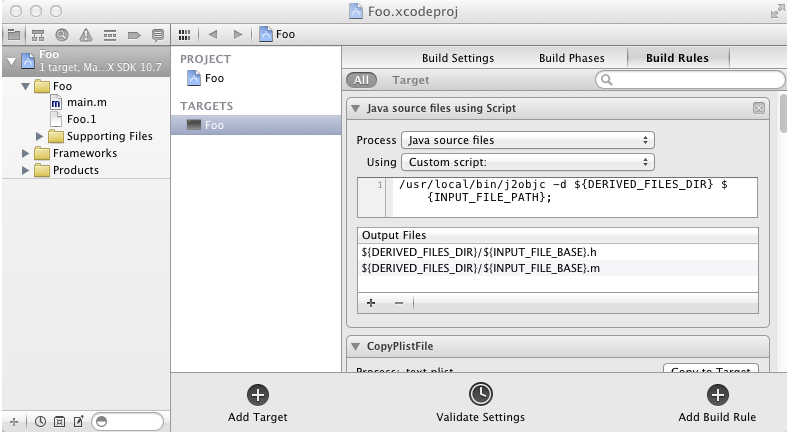
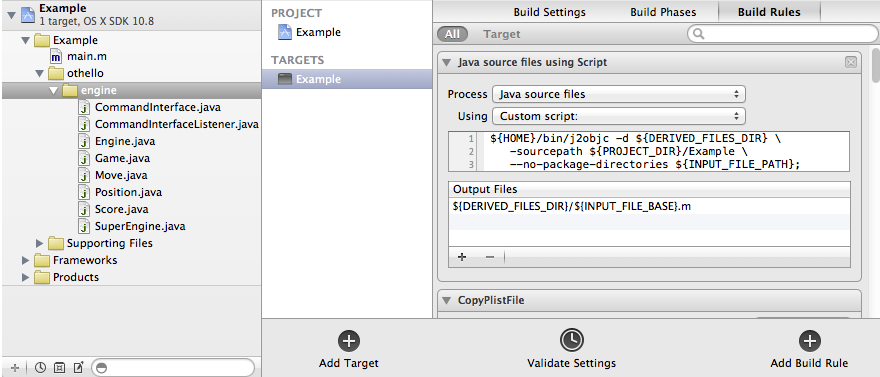
Added --no-package-directories option, which generates non-JRE outputs without the Java package as their directory. This feature is needed to support J2ObjC build rules in Xcode 4. Updated wiki image with new screenshot showing this option in use.
Updated option text to be more javac-like, including stating what's
missing when a flag requires an argument.
	Change on 2012/09/22 by tball@tball
-------------
Created by MOE: http://code.google.com/p/moe-java
MOE_MIGRATED_REVID=34188645

diff --git a/src/main/java/com/google/devtools/j2objc/Options.java b/src/main/java/com/google/devtools/j2objc/Options.java
@@ -52,6 +52,7 @@ public class Options {
   private static String pluginOptionString = "";
   private static List<Plugin> plugins = new ArrayList<Plugin>();
   private static File outputDirectory = new File(".");
+  private static boolean usePackageDirectories = true;
   private static Language language = Language.OBJECTIVE_C;
   private static boolean printConvertedSources = false;
   private static boolean ignoreMissingImports = false;
@@ -84,7 +85,7 @@ public class Options {
     URL propertiesUrl = Resources.getResource(J2ObjC.class, "J2ObjC.properties");
     Properties properties = new Properties();
     try {
-        properties.load(propertiesUrl.openStream());
+      properties.load(propertiesUrl.openStream());
     } catch (IOException e) {
       System.err.println("unable to access tool properties: " + e);
       System.exit(1);
@@ -95,6 +96,17 @@ public class Options {
     Preconditions.checkNotNull(usageMessage);
     helpMessage = properties.getProperty(HELP_MSG_KEY);
     Preconditions.checkNotNull(helpMessage);
+    properties.clear();
+
+    // Set JRE prefixes.
+    propertiesUrl = Resources.getResource(J2ObjC.class, "JRE.properties");
+    try {
+      properties.load(propertiesUrl.openStream());
+    } catch (IOException e) {
+      System.err.println("unable to access JRE package properties: " + e);
+      System.exit(1);
+    }
+    addPrefixProperties(properties);
   }
 
   public static enum MemoryManagementOption { REFERENCE_COUNTING, GC, ARC }
@@ -132,47 +144,47 @@ public class Options {
         classPathEntries = getPathArgument(args[nArg]);
       } else if (arg.equals("-sourcepath")) {
         if (++nArg == args.length) {
-          usage();
+          usage("-sourcepath requires an argument");
         }
         sourcePathEntries.addAll(getPathArgument(args[nArg]));
       } else if (arg.equals("-pluginpath")) {
         if (++nArg == args.length) {
-          usage();
+          usage("-pluginpath requires an argument");
         }
         pluginPathEntries = getPathArgument(args[nArg]);
       } else if (arg.equals("-pluginoptions")) {
         if (++nArg == args.length){
-          usage();
+          usage("-pluginoptions requires an argument");
         }
         pluginOptionString = args[nArg];
       } else if (arg.equals("-d")) {
         if (++nArg == args.length) {
-          usage();
+          usage("-d requires an argument");
         }
         outputDirectory = new File(args[nArg]);
       } else if (arg.equals("--mapping")) {
         if (++nArg == args.length) {
-          usage();
+          usage("--mapping requires an argument");
         }
         mappingFiles.add(args[nArg]);
       } else if (arg.equals("--dead-code-report")) {
         if (++nArg == args.length) {
-          usage();
+          usage("--dead-code-report requires an argument");
         }
         proGuardUsageFile = new File(args[nArg]);
       } else if (arg.equals("--prefix")) {
         if (++nArg == args.length) {
-          usage();
+          usage("--prefix requires an argument");
         }
         addPrefixOption(args[nArg]);
       } else if (arg.equals("--prefixes")) {
         if (++nArg == args.length) {
-          usage();
+          usage("--prefixes requires an argument");
         }
         addPrefixesFile(args[nArg]);
       } else if (arg.equals("-x")) {
         if (++nArg == args.length) {
-          usage();
+          usage("-x requires an argument");
         }
         String s = args[nArg];
         if (s.equals("objective-c")) {
@@ -180,7 +192,7 @@ public class Options {
         } else if (s.equals("objective-c++")) {
           language = Language.OBJECTIVE_CPP;
         } else {
-          usage();
+          usage("unsupported language: " + s);
         }
       } else if (arg.equals("--print-converted-sources")) {
         printConvertedSources = true;
@@ -196,6 +208,8 @@ public class Options {
         generateTestMain = true;
       } else if (arg.equals("--no-generate-test-main")) {
         generateTestMain = false;
+      } else if (arg.equals("--no-package-directories")) {
+        usePackageDirectories = false;
       } else if (arg.equals("-use-gc")) {
         checkMemoryManagementOption(MemoryManagementOption.GC);
       } else if (arg.equals("-use-arc")) {
@@ -215,7 +229,7 @@ public class Options {
       } else if (arg.startsWith("-h") || arg.equals("--help")) {
         help();
       } else if (arg.startsWith("-")) {
-        usage();
+        usage("invalid flag: " + arg);
       } else {
         break;
       }
@@ -227,6 +241,9 @@ public class Options {
     }
 
     int nFiles = args.length - nArg;
+    if (nFiles == 0) {
+      help(); // No files specified.
+    }
     String[] files = new String[nFiles];
     for (int i = 0; i < nFiles; i++) {
       String path = args[i + nArg];
@@ -246,7 +263,7 @@ public class Options {
 
     // Make sure key and value are at least 1 character.
     if (i < 1 || i >= arg.length() - 1) {
-      usage();
+      usage("invalid prefix format");
     }
     String pkg = arg.substring(0, i);
     String prefix = arg.substring(i + 1);
@@ -262,6 +279,10 @@ public class Options {
     FileInputStream fis = new FileInputStream(filename);
     props.load(fis);
     fis.close();
+    addPrefixProperties(props);
+  }
+
+  private static void addPrefixProperties(Properties props) {
     for (String pkg : props.stringPropertyNames()) {
       addPackagePrefix(pkg, props.getProperty(pkg));
     }
@@ -274,13 +295,13 @@ public class Options {
   private static void checkMemoryManagementOption(MemoryManagementOption option) {
     if (memoryManagementOption != null &&
         memoryManagementOption != option) {
-      System.err.println("Multiple memory management options cannot be set.");
-      usage();
+      usage("Multiple memory management options cannot be set.");
     }
     setMemoryManagementOption(option);
   }
 
-  private static void usage() {
+  private static void usage(String invalidUseMsg) {
+    System.err.println("j2objc: " + invalidUseMsg);
     System.err.println(usageMessage);
     System.exit(1);
   }
@@ -341,6 +362,14 @@ public class Options {
 
   public static File getOutputDirectory() {
     return outputDirectory;
+  }
+
+  /**
+   * If true, put output files in sub-directories defined by
+   * package declaration (like javac does).
+   */
+  public static boolean usePackageDirectories() {
+    return usePackageDirectories;
   }
 
   public static Language getLanguage() {

diff --git a/src/main/java/com/google/devtools/j2objc/gen/SourceFileGenerator.java b/src/main/java/com/google/devtools/j2objc/gen/SourceFileGenerator.java
@@ -23,6 +23,7 @@ import com.google.devtools.j2objc.util.NameTable;
 
 import org.eclipse.jdt.core.dom.ASTNode;
 import org.eclipse.jdt.core.dom.CompilationUnit;
+import org.eclipse.jdt.core.dom.PackageDeclaration;
 
 import java.io.File;
 import java.io.IOException;
@@ -52,13 +53,20 @@ public abstract class SourceFileGenerator {
   /**
    * Returns the name this source file should be saved as.  For example,
    * foo/bar/Mumble.java translates to $(OUTPUT_DIR)/foo/bar/Mumble.m for
-   * Objective-C implementation files.
+   * Objective-C implementation files.  If --no-package-directories is
+   * specified, though, the output file is $(OUTPUT_DIR)/Mumble.m.
    * <p>
    * Note: class names are still camel-cased to avoid name collisions.
    */
   protected String getOutputFileName(CompilationUnit node) {
     String javaName = NameTable.getMainJavaName(node, sourceFileName);
-    return javaName.replace('.', '/') + getSuffix();
+    PackageDeclaration pkg = node.getPackage();
+    if (Options.usePackageDirectories() || pkg == null) {
+      return javaName.replace('.', '/') + getSuffix();
+    } else {
+      String pkgName = pkg.getName().getFullyQualifiedName();
+      return javaName.substring(pkgName.length() + 1) + getSuffix();
+    }
   }
 
   /**

diff --git a/src/main/java/com/google/devtools/j2objc/types/ImportCollector.java b/src/main/java/com/google/devtools/j2objc/types/ImportCollector.java
@@ -17,6 +17,7 @@
 package com.google.devtools.j2objc.types;
 
 import com.google.common.collect.Sets;
+import com.google.devtools.j2objc.Options;
 import com.google.devtools.j2objc.util.ErrorReportingASTVisitor;
 import com.google.devtools.j2objc.util.NameTable;
 
@@ -187,7 +188,11 @@ public class ImportCollector extends ErrorReportingASTVisitor {
     }
 
     public String getImportFileName() {
-      return javaFileName.replace('.', '/');
+      // Always use JRE package directories.
+      if (Options.usePackageDirectories() || javaFileName.startsWith("java")) {
+        return javaFileName.replace('.', '/');
+      }
+      return javaFileName.substring(javaFileName.lastIndexOf('.') + 1);
     }
 
     public boolean isInterface() {
